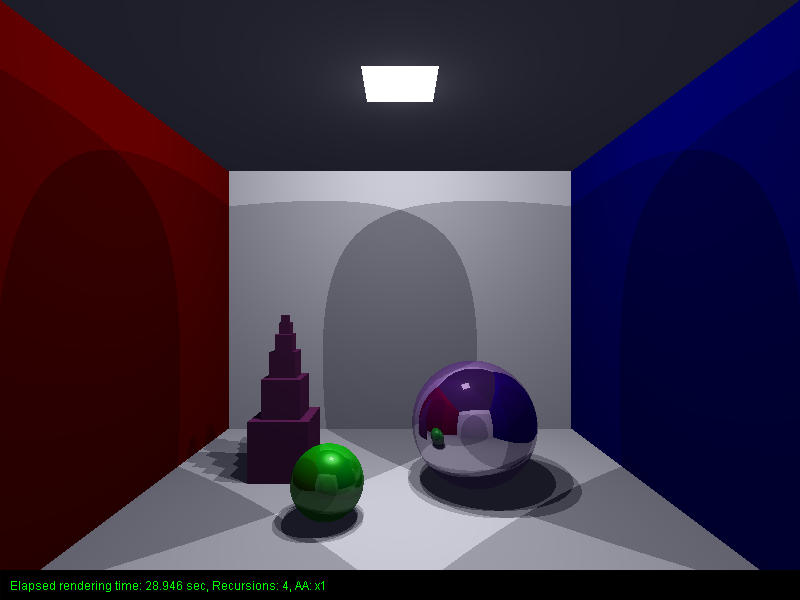
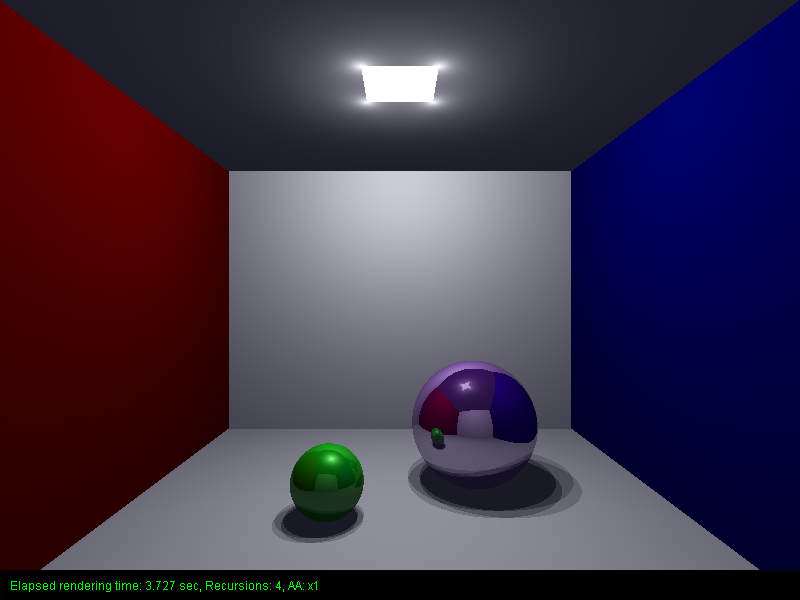
arealight adjustment + distance implementation for light effectivity

diff --git a/VCG_Raytracer/src/scene/Scene.java b/VCG_Raytracer/src/scene/Scene.java
@@ -71,9 +71,16 @@ public class Scene {
         lightList.add(newLight);
     }
 
-    public void createAreaLight(float _size, Vec3 _position, RgbColor _color){
-        AreaLight newLight = new AreaLight(_size, _position, _color);
-        lightList.add(newLight);
+    public void createAreaLight(Scene _scene, float _size, Vec3 _position, RgbColor _color){
+        AreaLight newLight = new AreaLight(_scene, _size, _position, _color);
+        //no need to add it to the list here since we do that with the inner pointlights
+    }
+
+    //this is needed since else we cant add the PointLight to our scene list AND save it in AreaLight
+    public void addCornerLights(PointLight[] _lights){
+        for (PointLight pointLight : _lights) {
+            lightList.add(pointLight);
+        }
     }
 
     public ArrayList<Shape> getShapes(){
@@ -117,59 +124,28 @@ public class Scene {
     //0 corners blocked -> return 0
     //1 corner blocked -> return 0.25f
     //scale up by 0.25f till all corners blcoked = return 1 due to being coreshadow
-    public float isInShadow(Intersection _intersection, Light _light) {
 
-        //yes I know this if else aint fancy for now, but for now it works for testing
-        //pointLight case
-        if(_light instanceof PointLight){
+    public boolean isInShadow(Intersection _intersection, Light _light) {
 
-            // intersection towards light
-            Vec3 vToLight = _light.getPosition().sub(_intersection.getIntersectionPoint()).normalize();
-            // offset to prevent ray starting inside the object
-            Vec3 origin = _intersection.getIntersectionPoint().add(vToLight.multScalar(0.01f));
-            Ray shadowRay = new Ray(origin, vToLight);
-            Intersection hit = this.findClosestIntersection(shadowRay);
+        // intersection towards light
+        Vec3 vToLight = _light.getPosition().sub(_intersection.getIntersectionPoint()).normalize();
+        // offset to prevent ray starting inside the object
+        Vec3 origin = _intersection.getIntersectionPoint().add(vToLight.multScalar(0.01f));
+        Ray shadowRay = new Ray(origin, vToLight);
+        Intersection hit = this.findClosestIntersection(shadowRay);
 
-            // Nothing hit or own shape hit -> no shadow
-            if (hit == null) {
-                return 0f;
-            }
-
-            // only if object is infront of light -> shadow
-            float distanceToLight = _light.getPosition().sub(origin).length();
-            float distanceToHit = hit.getIntersectionPoint().sub(origin).length();
-            //distanceToHit = hit.getDistance();
-
-            if(distanceToHit < distanceToLight){
-                return 0; //was originally 1//swapped 0 and 1 due to material calc for testing if wonky change back for this
-            }else{
-                return 1; //was originally 0 -> yep needs to be 1
-            }
-
-        }else{
-            //areaLightcase
-            float shadowPercent = 1f;
-            for (Vec3 corner : _light.getCorners()) {
-                // intersection towards light
-                Vec3 vToLight = corner.sub(_intersection.getIntersectionPoint()).normalize();
-                // offset to prevent ray starting inside the object
-                Vec3 origin = _intersection.getIntersectionPoint().add(vToLight.multScalar(0.01f));
-                Ray shadowRay = new Ray(origin, vToLight);
-                Intersection hit = this.findClosestIntersection(shadowRay);
-
-                // only if object is infront of light -> shadow
-                float distanceToLight = _light.getPosition().sub(origin).length();
-                float distanceToHit = hit.getIntersectionPoint().sub(origin).length();
-
-                //for each corner blocked we'll remove 0.25f 
-                if(distanceToHit < distanceToLight)
-                    shadowPercent -= 0.25f;
-            }
-
-            //return % of shadow
-            return shadowPercent;
+        // Nothing hit or own shape hit -> no shadow
+        if (hit == null) {
+            return false;
         }
-        
+
+        // only if object is infront of light -> shadow
+        float distanceToLight = _light.getPosition().sub(origin).length();
+        float distanceToHit = hit.getIntersectionPoint().sub(origin).length();
+        //distanceToHit = hit.getDistance();
+
+        return distanceToHit < distanceToLight;
     }
+
 
 }

diff --git a/VCG_Raytracer/src/scene/material/Phong.java b/VCG_Raytracer/src/scene/material/Phong.java
@@ -44,10 +44,12 @@ public class Phong extends Material {
             Vec3 vCam = _ray.getDirection().multScalar(-1).normalize();
 
             //calculates surface color aslong as the object is not obscured by another in the scene
-            float shadowPercent = _scene.isInShadow(_intersection, light);
-            if (shadowPercent != 0) {
+            if (!(_scene.isInShadow(_intersection, light))) {
 
                 Vec3 lightPosition = light.getPosition();
+                float distance = lightPosition.sub(intersectionPosition).length();
+                if(distance < 1) //setting this as a min distance to avoid big white light circles on ceiling
+                    distance = 1;
 
                 Vec3 vLight = lightPosition.sub(intersectionPosition).normalize();
                 Float scalar_normal_light = vNormal.scalar(vLight);
@@ -55,9 +57,9 @@ public class Phong extends Material {
                 RgbColor lightColor = light.getColor();
 
                 // DIFFUSE
-                r += lightColor.red() * diffuseK.red() * scalar_normal_light * shadowPercent;
-                g += lightColor.green() * diffuseK.green() * scalar_normal_light * shadowPercent;
-                b += lightColor.blue() * diffuseK.blue() * scalar_normal_light * shadowPercent;
+                r += lightColor.red() * diffuseK.red() * scalar_normal_light * (1/distance);
+                g += lightColor.green() * diffuseK.green() * scalar_normal_light * (1/distance);
+                b += lightColor.blue() * diffuseK.blue() * scalar_normal_light * (1/distance);
 
                 // reflectionvector for highlight
                 Vec3 vReflection = vNormal.multScalar(2 * scalar_normal_light).sub(vLight);
@@ -66,9 +68,9 @@ public class Phong extends Material {
                 Float scalar_view_reflection = vReflection.scalar(vCam);
                 
                 // SPECULAR
-                r += (float) (lightColor.red() * (specularK.red() * Math.pow(Math.max(0, scalar_view_reflection), specularExponent))) * shadowPercent;
-                g += (float) (lightColor.green() * (specularK.green() * Math.pow(Math.max(0, scalar_view_reflection), specularExponent))) * shadowPercent;
-                b += (float) (lightColor.blue() * (specularK.blue() * Math.pow(Math.max(0, scalar_view_reflection), specularExponent))) * shadowPercent;
+                r += (float) (lightColor.red() * (specularK.red() * Math.pow(Math.max(0, scalar_view_reflection), specularExponent))) * (1/distance);
+                g += (float) (lightColor.green() * (specularK.green() * Math.pow(Math.max(0, scalar_view_reflection), specularExponent))) * (1/distance);
+                b += (float) (lightColor.blue() * (specularK.blue() * Math.pow(Math.max(0, scalar_view_reflection), specularExponent))) * (1/distance);
             
             }
 

diff --git a/VCG_Raytracer/src/scene/light/AreaLight.java b/VCG_Raytracer/src/scene/light/AreaLight.java
@@ -1,5 +1,6 @@
 package scene.light;
 
+import scene.Scene;
 import utils.RgbColor;
 import utils.algebra.Vec3;
 
@@ -7,20 +8,23 @@ import utils.algebra.Vec3;
 //actually nvm for now will do simply way thatll only work for horizontal lights
 public class AreaLight extends Light {
 
-    Vec3[] cornerPositions;
-    Vec3 position;
-    RgbColor color;
-    float size;
+    private PointLight[] cornerLights;
+    private Vec3 position;
+    private RgbColor color;
+    private float size;
 
-    public AreaLight(float _size, Vec3 _pos, RgbColor _color){
+
+    public AreaLight(Scene _scene, float _size, Vec3 _pos, RgbColor _color){
         this.size = _size;
         this.position = _pos;
         this.color = _color;
-        this.cornerPositions = new Vec3[4];
-        cornerPositions[0] = new Vec3(position.x - size/2, position.y, position.z - size/2);
-        cornerPositions[1] = new Vec3(position.x - size/2, position.y, position.z + size/2);
-        cornerPositions[2] = new Vec3(position.x + size/2, position.y, position.z - size/2);
-        cornerPositions[3] = new Vec3(position.x + size/2, position.y, position.z + size/2);
+        this.cornerLights = new PointLight[4];
+        cornerLights[0] = new PointLight(new Vec3(position.x - size/2, position.y, position.z - size/2), _color);
+        cornerLights[1] = new PointLight(new Vec3(position.x - size/2, position.y, position.z + size/2), _color);
+        cornerLights[2] = new PointLight(new Vec3(position.x + size/2, position.y, position.z - size/2), _color);
+        cornerLights[3] = new PointLight(new Vec3(position.x + size/2, position.y, position.z + size/2), _color);
+
+        _scene.addCornerLights(cornerLights);
     }
     
     public RgbColor getColor(){
@@ -31,8 +35,8 @@ public class AreaLight extends Light {
         return this.position;
     }
 
-    public Vec3[] getCorners(){
-        return cornerPositions;
+    public PointLight[] getCornerLights(){
+        return this.cornerLights;
     }
 
 }

diff --git a/VCG_Raytracer/src/scene/material/Lambert.java b/VCG_Raytracer/src/scene/material/Lambert.java
@@ -40,11 +40,12 @@ public class Lambert extends Material {
             Vec3 vCam = _ray.getDirection().multScalar(-1).normalize();
 
 
-            //basically what we need for areaLight is to make the isInShadow method check each if its corners/how many of the corners are blocked by sth in the way 
-            float shadowPercent = _scene.isInShadow(_intersection, light);
-            if (shadowPercent != 0) {
+            if (!(_scene.isInShadow(_intersection, light))) {
 
                 Vec3 lightPosition = light.getPosition();
+                float distance = lightPosition.sub(intersectionPosition).length();
+                if(distance < 1) //setting this as a min distance to avoid big white light circles on ceiling
+                    distance = 1;
 
                 Vec3 vLight = lightPosition.sub(intersectionPosition).normalize();
                 Float scalar_normal_light = vNormal.scalar(vLight);
@@ -52,9 +53,9 @@ public class Lambert extends Material {
                 RgbColor lightColor = light.getColor();
 
                 // DIFFUSE
-                r += lightColor.red() * diffuseK.red() * scalar_normal_light * shadowPercent;
-                g += lightColor.green() * diffuseK.green() * scalar_normal_light * shadowPercent;
-                b += lightColor.blue() * diffuseK.blue() * scalar_normal_light * shadowPercent;
+                r += lightColor.red() * diffuseK.red() * scalar_normal_light * (1/distance);
+                g += lightColor.green() * diffuseK.green() * scalar_normal_light * (1/distance);
+                b += lightColor.blue() * diffuseK.blue() * scalar_normal_light * (1/distance);
                 
                 
 

diff --git a/VCG_Raytracer/src/Main.java b/VCG_Raytracer/src/Main.java
@@ -137,7 +137,14 @@ public class Main {
         //renderScene.createPointLight(LIGHT_POSITION, LIGHT_COLOR);
 
         // Lights - task 6
-        renderScene.createAreaLight(AREA_LIGHT_SIZE, LIGHT_POSITION, LIGHT_COLOR);
+        renderScene.createAreaLight(renderScene, AREA_LIGHT_SIZE, LIGHT_POSITION, LIGHT_COLOR);
+          /* 
+        renderScene.createPointLight(new Vec3(LIGHT_POSITION.x-0.5f, LIGHT_POSITION.y, LIGHT_POSITION.z-0.5f), new RgbColor(0.3f,0.3f,0.3f));
+        renderScene.createPointLight(new Vec3(LIGHT_POSITION.x-0.5f, LIGHT_POSITION.y, LIGHT_POSITION.z+0.5f), new RgbColor(0.3f,0.3f,0.3f));
+        renderScene.createPointLight(new Vec3(LIGHT_POSITION.x+0.5f, LIGHT_POSITION.y, LIGHT_POSITION.z-0.5f), new RgbColor(0.3f,0.3f,0.3f));
+        renderScene.createPointLight(new Vec3(LIGHT_POSITION.x+0.5f, LIGHT_POSITION.y, LIGHT_POSITION.z+0.5f), new RgbColor(0.3f,0.3f,0.3f));
+        */
+        
     }
 
     private static void setupCameras(Scene renderScene) {
@@ -178,7 +185,7 @@ public class Main {
         //renderScene.createCube(1f, new Vec3(-2.5f, 0.5f, -2.5f),mat_shiny);
 
         //cube tower test
-        renderScene.createCubeTower(1f, new Vec3(-2, 0.5f, -1.5f), mat_lambert);
+        //renderScene.createCubeTower(1f, new Vec3(-2, 0.5f, -1.5f), mat_lambert);
 
         //testing shadow projection
         //renderScene.createSphere(new Vec3(1f, 0,0), 0.75f, mat_phong);

diff --git a/VCG_Raytracer/src/scene/light/PointLight.java b/VCG_Raytracer/src/scene/light/PointLight.java
@@ -22,9 +22,4 @@ public class PointLight extends Light {
         return this.position;
     }
 
-    public Vec3[] getCorners(){
-        System.err.println("ERROR COULDNT FIND CORNERS OF POINTLIGHT!!!");
-        return null;
-    }
-
 }

diff --git a/VCG_Raytracer/src/scene/light/Light.java b/VCG_Raytracer/src/scene/light/Light.java
@@ -8,6 +8,5 @@ public abstract class Light extends SceneObject{
 
     public abstract RgbColor getColor();
     public abstract Vec3 getPosition();
-    public abstract Vec3[] getCorners();
 
 }
